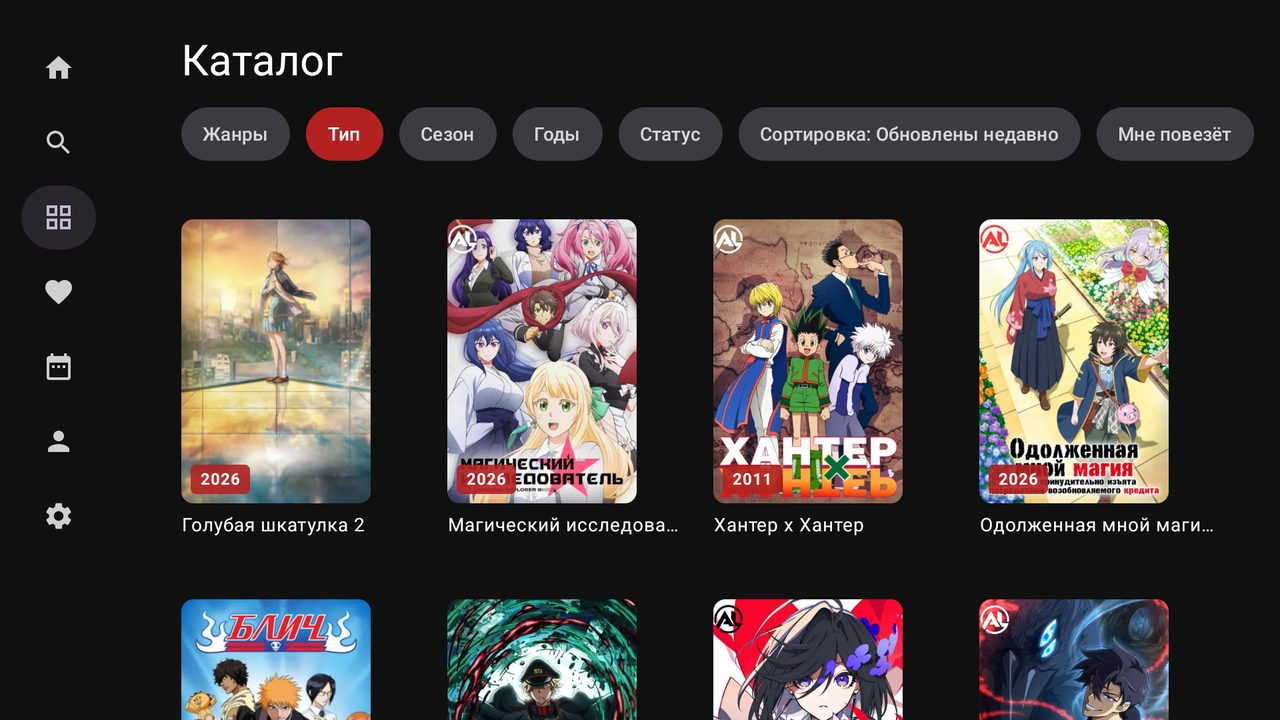
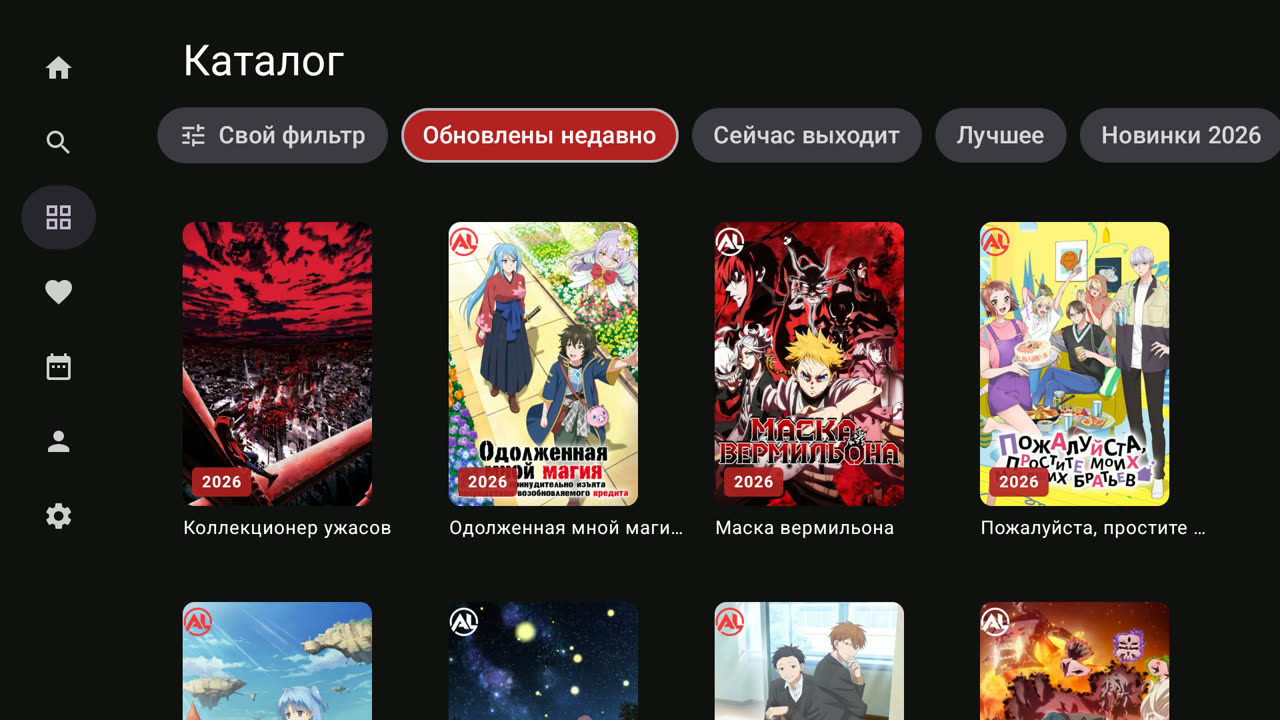
README: fresh screenshots (0.9.17), player and episode strip added; catalog and player described as they are now

diff --git a/README.en.md b/README.en.md
@@ -25,13 +25,16 @@ The whole UI is made for a remote control: arrows and OK. Content is in Russian.
 - **New episodes of your favorites** on launch and as an Android TV home-screen channel;
   unfinished episodes in the system's Watch Next row.
 - **Favorites and lists**: Watching, Planned, Watched, On hold, Dropped; rate titles.
-- **Release page**: all seasons of a franchise, similar titles, episode list with thumbnails.
-- **Catalog** with filters (genres, type, season, years, status), sorting and "I'm feeling lucky".
+- **Release page**: all seasons of a franchise, similar titles, an episode grid with thumbnails;
+  long series in ranges of 50.
+- **Catalog**: quick picks (Airing now, Top rated, Movies…), every filter in one panel (genres,
+  type, season, years, status, sorting), your own saved picks and "I'm feeling lucky" within the
+  current pick.
 - **Search**, including voice search.
 - **Weekly schedule.**
-- **Player**: 480/720/1080p, skip opening and ending (manual or automatic), speed, sleep timer,
-  night sound mode, seek previews, auto-play next episode, frame-rate matching. Watch progress
-  syncs with your account.
+- **Player**: see-through controls, an episode strip with frames on Down, 480/720/1080p, skip
+  opening and ending (manual or automatic), speed, sleep timer, night sound mode, seek previews,
+  auto-play next episode, frame-rate matching. Watch progress syncs with your account.
 - **Torrents via [TorrServe](https://github.com/YouROK/TorrServer)**: with TorrServe installed you
   pick the episode inside a torrent and it gets marked as watched. Without it, the magnet opens in
   any torrent app or goes to your phone as a QR code.
@@ -45,6 +48,7 @@ The whole UI is made for a remote control: arrows and OK. Content is in Russian.
 |---|---|
 | ![Release page](docs/screenshots/release.jpg) | ![Catalog](docs/screenshots/catalog.jpg) |
 | ![Favorites and lists](docs/screenshots/favorites.jpg) | ![Schedule](docs/screenshots/schedule.jpg) |
+| ![Player](docs/screenshots/player.jpg) | ![Episodes in the player](docs/screenshots/episodes.jpg) |
 
 ## Install
 
